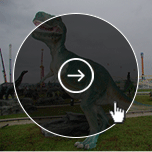
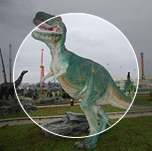
added hover

diff --git a/index.html b/index.html
@@ -76,7 +76,8 @@
                 <div class="col-md-12">
                     <div class="col-md-6 mypage-products-group-element">
                         <div class="col-md-3 mypage-products-group-element-image">
-                            <img src="Images/products/product1.png" class="img-responsive" alt="">
+                            <img src="Images/products/product1.png" alt="">
+                            <img src="Images/products/hover-arrow.png" class="hover-img" alt="">
                         </div>
                         <div class="col-md-9 mypage-products-group-element-content">
                             <h2>
@@ -91,7 +92,8 @@
                     </div>
                     <div class="col-md-6 mypage-products-group-element">
                         <div class="col-md-3 mypage-products-group-element-image">
-                            <img src="Images/products/product2.png" class="img-responsive" alt="">
+                            <img src="Images/products/product2.png" alt="">
+                            <img src="Images/products/hover-arrow.png" class="hover-img" alt="">
                         </div>
                         <div class="col-md-9 mypage-products-group-element-content">
                             <h2>
@@ -108,7 +110,8 @@
                 <div class="col-md-12">
                     <div class="col-md-6 mypage-products-group-element">
                         <div class="col-md-3 mypage-products-group-element-image">
-                            <img src="Images/products/product3.png" class="img-responsive" alt="">
+                            <img src="Images/products/product3.png" alt="">
+                            <img src="Images/products/hover-arrow.png" class="hover-img" alt="">
                         </div>
                         <div class="col-md-9 mypage-products-group-element-content">
                             <h2>
@@ -123,7 +126,8 @@
                     </div>
                     <div class="col-md-6 mypage-products-group-element">
                         <div class="col-md-3 mypage-products-group-element-image">
-                            <img src="Images/products/product4.png" class="img-responsive" alt="">
+                            <img src="Images/products/product4.png" alt="">
+                            <img src="Images/products/hover-arrow.png" class="hover-img" alt="">
                         </div>
                         <div class="col-md-9 mypage-products-group-element-content">
                             <h2>
@@ -140,7 +144,8 @@
                 <div class="col-md-12">
                     <div class="col-md-6 mypage-products-group-element">
                         <div class="col-md-3 mypage-products-group-element-image">
-                            <img src="Images/products/product5.png" class="img-responsive" alt="">
+                            <img src="Images/products/product5.png" alt="">
+                            <img src="Images/products/hover-arrow.png" class="hover-img" alt="">
                         </div>
                         <div class="col-md-9 mypage-products-group-element-content">
                             <h2>
@@ -155,7 +160,8 @@
                     </div>
                     <div class="col-md-6 mypage-products-group-element">
                         <div class="col-md-3 mypage-products-group-element-image">
-                            <img src="Images/products/product6.png" class="img-responsive" alt="">
+                            <img src="Images/products/product6.png" alt="">
+                            <img src="Images/products/hover-arrow.png" class="hover-img" alt="">
                         </div>
                         <div class="col-md-9 mypage-products-group-element-content">
                             <h2>
@@ -172,7 +178,8 @@
                 <div class="col-md-12">
                     <div class="col-md-6 mypage-products-group-element">
                         <div class="col-md-3 mypage-products-group-element-image">
-                            <img src="Images/products/product7.png" class="img-responsive" alt="">
+                            <img src="Images/products/product7.png" alt="">
+                            <img src="Images/products/hover-arrow.png" class="hover-img" alt="">
                         </div>
                         <div class="col-md-9 mypage-products-group-element-content">
                             <h2>
@@ -187,7 +194,8 @@
                     </div>
                     <div class="col-md-6 mypage-products-group-element">
                         <div class="col-md-3 mypage-products-group-element-image">
-                            <img src="Images/products/product8.png" class="img-responsive" alt="">
+                            <img src="Images/products/product8.png" alt="">
+                            <img src="Images/products/hover-arrow.png" class="hover-img" alt="">
                         </div>
                         <div class="col-md-9 mypage-products-group-element-content">
                             <h2>

diff --git a/css/style.css b/css/style.css
@@ -117,6 +117,17 @@ blockquote, q {
 
 .mypage-products-group-galery .mypage-products-group-element {
   margin-bottom: 75px; }
+  .mypage-products-group-galery .mypage-products-group-element-image img {
+    height: 100px;
+    width: 100px; }
+  .mypage-products-group-galery .mypage-products-group-element-image .hover-img {
+    display: none;
+    position: absolute;
+    opacity: 0.7;
+    top: 0px;
+    left: 15px; }
+  .mypage-products-group-galery .mypage-products-group-element-image img:hover + .hover-img {
+    display: block; }
   .mypage-products-group-galery .mypage-products-group-element-content h2 {
     color: #549a35; }
   .mypage-products-group-galery .mypage-products-group-element-content h2:hover {

diff --git a/sass/products/_products.scss b/sass/products/_products.scss
@@ -13,6 +13,22 @@
     &-galery {
         .mypage-products-group-element {
             margin-bottom: 75px;
+            &-image {
+                img {
+                    height: 100px;
+                    width: 100px;
+                }
+                .hover-img {
+                    display: none;
+                    position: absolute;
+                    opacity: 0.7;
+                    top: 0px;
+                    left: 15px;
+                }
+                img:hover+.hover-img {
+                    display: block;
+                }
+            }
             &-content {
                 h2 {
                     color: #549a35;
